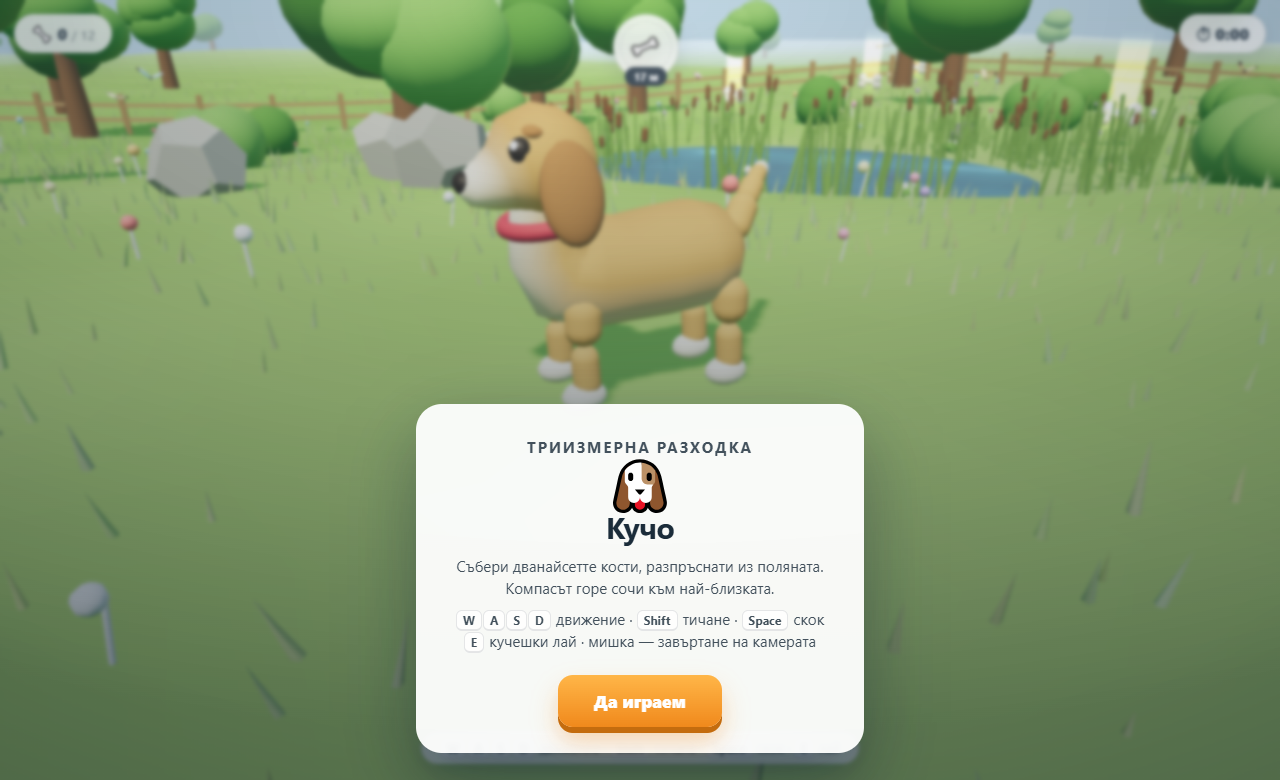
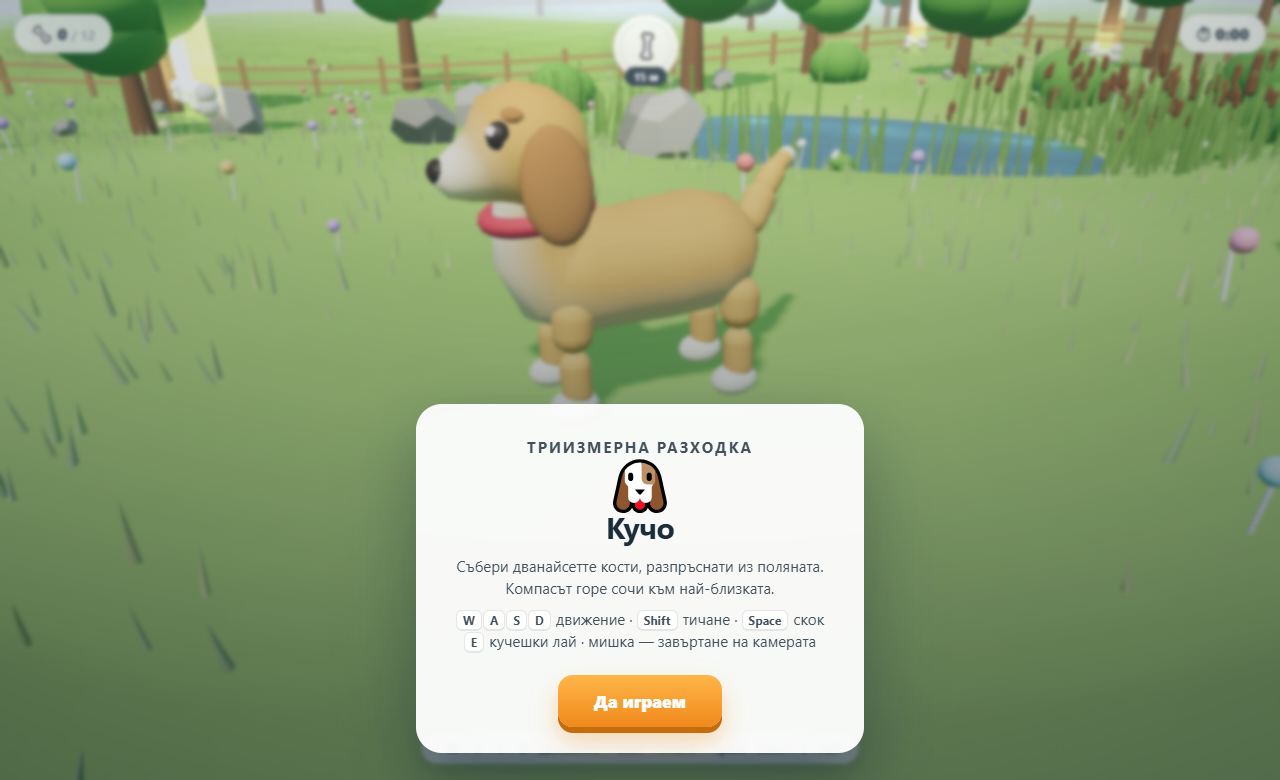
Мишката, мъгла на хоризонта и по-хубав скок
- Камерата вече се върти и нагоре-надолу с мишката, не само наляво-надясно.
- След като я пипнеш с мишката, програмата не я мести 2.5 секунди.
  Преди се връщаше зад Кучо веднага и се биеше с ръката ти.
- Автоматичното завъртане зад Кучо е по-плавно.
- Мъгла по хоризонта: широк пръстен, който следва камерата — земята и
  небето вече преливат, вместо да се срещат на рязко.
- Облаците са повече, а ниските далечни се сливат с мъглата.
- Като скача, Кучо надига предната част на тялото, после я отпуска
  за приземяването.

diff --git a/game.js b/game.js
@@ -167,8 +167,11 @@ var clouds = [];
 (function makeClouds() {
   var mat = new T.MeshBasicMaterial({ color: 0xffffff, transparent: true, opacity: 0.93, fog: false });
   var matLow = new T.MeshBasicMaterial({ color: 0xdfeaf7, transparent: true, opacity: 0.9, fog: false });
+  var matFar = new T.MeshBasicMaterial({ color: 0xeaf2fb, transparent: true, opacity: 0.7, fog: false });
   var geo = new T.SphereGeometry(1, 10, 8);
-  for (var i = 0; i < 15; i++) {
+
+  // високи, ясно очертани облаци
+  for (var i = 0; i < 22; i++) {
     var g = new T.Group();
     var puffs = 5 + ((Math.random() * 4) | 0);
     for (var k = 0; k < puffs; k++) {
@@ -178,11 +181,55 @@ var clouds = [];
       m.scale.set(r, r * rnd(0.42, 0.62), r * rnd(0.75, 1.1));
       g.add(m);
     }
-    var ang = rnd(0, Math.PI * 2), dist = rnd(60, 210);
-    g.position.set(Math.cos(ang) * dist, rnd(58, 104), Math.sin(ang) * dist);
+    var ang = rnd(0, Math.PI * 2), dist = rnd(60, 220);
+    g.position.set(Math.cos(ang) * dist, rnd(56, 108), Math.sin(ang) * dist);
     scene.add(g);
     clouds.push(g);
   }
+
+  // ниски и далечни — сливат се с мъглата на хоризонта
+  for (var j = 0; j < 16; j++) {
+    var g2 = new T.Group();
+    var puffs2 = 4 + ((Math.random() * 3) | 0);
+    for (var k2 = 0; k2 < puffs2; k2++) {
+      var r2 = rnd(9, 18);
+      var m2 = new T.Mesh(geo, matFar);
+      m2.position.set(rnd(-22, 22), rnd(-3, 3), rnd(-10, 10));
+      m2.scale.set(r2, r2 * rnd(0.3, 0.45), r2 * rnd(0.7, 1.0));
+      g2.add(m2);
+    }
+    var ang2 = rnd(0, Math.PI * 2), dist2 = rnd(150, 280);
+    g2.position.set(Math.cos(ang2) * dist2, rnd(34, 66), Math.sin(ang2) * dist2);
+    scene.add(g2);
+    clouds.push(g2);
+  }
+})();
+
+// мъгла по хоризонта — широк пръстен, който следва камерата.
+// Така земята и небето не се срещат на рязко, а преливат.
+var hazeMesh = (function makeHaze() {
+  var c = document.createElement('canvas');
+  c.width = 4; c.height = 128;
+  var g = c.getContext('2d');
+  var grad = g.createLinearGradient(0, 0, 0, 128);
+  grad.addColorStop(0.00, 'rgba(214,232,248,0)');     // горе се стопява в небето
+  grad.addColorStop(0.30, 'rgba(216,233,248,0.3)');
+  grad.addColorStop(0.55, 'rgba(224,237,249,0.72)');
+  grad.addColorStop(0.78, 'rgba(236,243,250,0.96)');
+  grad.addColorStop(1.00, 'rgba(245,248,252,1)');     // долу е най-гъсто
+  g.fillStyle = grad; g.fillRect(0, 0, 4, 128);
+
+  var tex = new T.CanvasTexture(c);
+  if (T.sRGBEncoding !== undefined) { tex.encoding = T.sRGBEncoding; }
+  var mesh = new T.Mesh(
+    new T.CylinderGeometry(195, 195, 90, 36, 1, true),
+    new T.MeshBasicMaterial({
+      map: tex, transparent: true, side: T.BackSide,
+      depthWrite: false, fog: false
+    })
+  );
+  scene.add(mesh);
+  return mesh;
 })();
 
 /* ══════════════════════════════════════════════════════════════════════════
@@ -1737,6 +1784,8 @@ function doBark() {
 
 var stick = { x: 0, y: 0 };          // −1..1
 var touchRun = false, touchJump = false;
+var camPitch = 0.42;                 // наклон на камерата, 0 = равно, 1.12 = отгоре
+var camManual = 0;                   // колко още не пипаме камерата автоматично
 
 var stickEl = document.getElementById('stick');
 var knobEl = document.getElementById('knob');
@@ -1758,7 +1807,7 @@ function onTouchDown(e) {
     stickEl.classList.add('on');
     knobEl.style.transform = 'translate(-50%,-50%)';
   } else if (camTouch === null) {
-    camTouch = { id: id, x0: t.clientX };
+    camTouch = { id: id, x0: t.clientX, y0: t.clientY };
   }
 }
 
@@ -1775,8 +1824,9 @@ function onTouchMove(e) {
       stick.x = dx / STICK_R;
       stick.y = dy / STICK_R;
     } else if (camTouch && camTouch.id === id) {
-      camYaw -= (t.clientX - camTouch.x0) * 0.008;
+      dragCamera((t.clientX - camTouch.x0) * 1.5, (t.clientY - camTouch.y0) * 1.5);
       camTouch.x0 = t.clientX;
+      camTouch.y0 = t.clientY;
     }
   }
   if (e.cancelable) { e.preventDefault(); }
@@ -1848,20 +1898,31 @@ function setTouch(on) {
 
 /* ---------- мишка (само на компютър) ---------- */
 
-var dragging = false, lastX = 0;
+var dragging = false, lastX = 0, lastY = 0;
 
 renderer.domElement.addEventListener('pointerdown', function (e) {
   if (isTouch || e.pointerType === 'touch') { return; }
   dragging = true;
   lastX = e.clientX;
+  lastY = e.clientY;
 });
 window.addEventListener('pointermove', function (e) {
   if (!dragging || isTouch) { return; }
-  camYaw -= (e.clientX - lastX) * 0.0055;
+  dragCamera(e.clientX - lastX, e.clientY - lastY);
   lastX = e.clientX;
+  lastY = e.clientY;
 });
 window.addEventListener('pointerup', function () { dragging = false; });
 window.addEventListener('pointercancel', function () { dragging = false; });
+
+/* Едно място, през което минава всяко ръчно завъртане на камерата.
+   Записва и че играчът я е пипал — през следващите 2.5 секунди
+   програмата не я мести сама, иначе се бият и изглежда странно. */
+function dragCamera(dx, dy) {
+  camYaw -= dx * 0.0055;
+  camPitch = clamp(camPitch - dy * 0.0038, 0.1, 1.12);
+  camManual = 2.5;
+}
 
 /* ══════════════════════════════════════════════════════════════════════════
    12. HUD
@@ -1916,6 +1977,7 @@ function resetGame() {
   squash = 0;
   headYaw = 0; headPitch = 0;
   lookYaw = 0; lookTimer = rnd(2, 4);
+  camPitch = 0.42; camManual = 0;
   home.on = false; home.t = 1; home.dir = 1;
   play.on = false; play.t = 0; play.next = rnd(7, 14);
   if (play.bf) { play.bf.play = false; play.bf = null; }
@@ -2184,9 +2246,14 @@ function updateDog(dt, time) {
   // свиване и разтягане — тялото диша с движението
   dogBody.scale.set(1 - squash * 0.1, 1 + squash * 0.13, 1 - squash * 0.1);
 
+  // във въздуха вдига предната част на тялото, после я отпуска за приземяването
+  var jp = clamp(DOG.airT / 0.72, 0, 1);
+  var upK = clamp((jp - 0.08) / 0.34, 0, 1);
+  var downK = clamp((jp - 0.62) / 0.38, 0, 1);
+
   dogTilt.rotation.x = DOG.grounded
     ? Math.min(0.1, spd * 0.009) + Math.sin(gait * 0.5) * 0.018 * spdR
-    : -0.3 + 0.62 * clamp(DOG.airT / 0.72, 0, 1);      // носете нагоре при отскок, после надолу
+    : -0.13 - 0.24 * upK + 0.52 * downK;
   dogTilt.rotation.z = Math.sin(gait * 0.5) * 0.035 * spdR;
 
   // опашка — трите части махат с малко закъснение
@@ -2347,19 +2414,24 @@ function updateCamera(dt) {
     lookY = HOUSE.groundY + 1.5;
     lookZ = HOUSE.z + HOUSE.dirZ * 1.5;
   } else {
+    // авто-завъртане зад Кучо, но само ако играчът не е пипал камерата скоро
+    if (camManual > 0) { camManual = Math.max(0, camManual - dt); }
+
     var fwdOnly = Math.max(0, input.mz);
-    if (state === 'playing' && !dragging && !touchMove && fwdOnly > 0) {
-      camYaw = lerpAngle(camYaw, DOG.yaw + Math.PI, (1 - Math.pow(0.12, dt)) * fwdOnly);
+    if (state === 'playing' && camManual <= 0 && !dragging && !touchMove && fwdOnly > 0) {
+      camYaw = lerpAngle(camYaw, DOG.yaw + Math.PI, (1 - Math.pow(0.35, dt)) * fwdOnly);
     }
-    if (closeUp) { camYaw += dt * 0.2; }
+    if (closeUp && camManual <= 0) { camYaw += dt * 0.2; }
 
     var dist = closeUp ? 8.8 : 9.4;
-    var height = closeUp ? 2.5 : 4.1;
-    tx = DOG.x + Math.sin(camYaw) * dist;
-    tz = DOG.z + Math.cos(camYaw) * dist;
-    ty = closeUp ? height : DOG.y * 0.45 + height;
+    var pitch = closeUp ? 0.29 : camPitch;
+    var cosP = Math.cos(pitch), sinP = Math.sin(pitch);
+
+    tx = DOG.x + Math.sin(camYaw) * dist * cosP;
+    tz = DOG.z + Math.cos(camYaw) * dist * cosP;
 
     var dogGround = terrainH(DOG.x, DOG.z);
+    ty = dogGround + DOG.y * 0.45 + dist * sinP;
     lookX = DOG.x;
     lookY = dogGround + DOG.y * 0.6 + (closeUp ? -0.45 : 1.25);
     lookZ = DOG.z;
@@ -2382,7 +2454,6 @@ function updateCamera(dt) {
     shake *= Math.pow(0.02, dt);
   }
 
-  var dogGround = terrainH(DOG.x, DOG.z);
   lookNow.set(lookX, lookY, lookZ);
   var lk = home.on ? (1 - Math.pow(0.16, dt)) : (1 - Math.pow(0.0004, dt));
   camLook.x += (lookNow.x - camLook.x) * lk;
@@ -2399,11 +2470,12 @@ function updateCamera(dt) {
 
   // слънцето следва Кучо
   sun.position.set(DOG.x + 26, 44, DOG.z + 20);
-  sun.target.position.set(DOG.x, dogGround, DOG.z);
+  sun.target.position.set(DOG.x, terrainH(DOG.x, DOG.z), DOG.z);
   sun.target.updateMatrixWorld();
 
-  // слънчевият диск и облаците следват камерата, за да не се стига до ръба на небето
+  // слънчевият диск и мъглата следват камерата, за да не се стига до ръба на небето
   sunSprite.position.copy(camera.position).addScaledVector(SUN_DIR, 300);
+  hazeMesh.position.set(camera.position.x, camera.position.y + 12, camera.position.z);
 }
 
 /* ---------- свят около Кучо ---------- */
